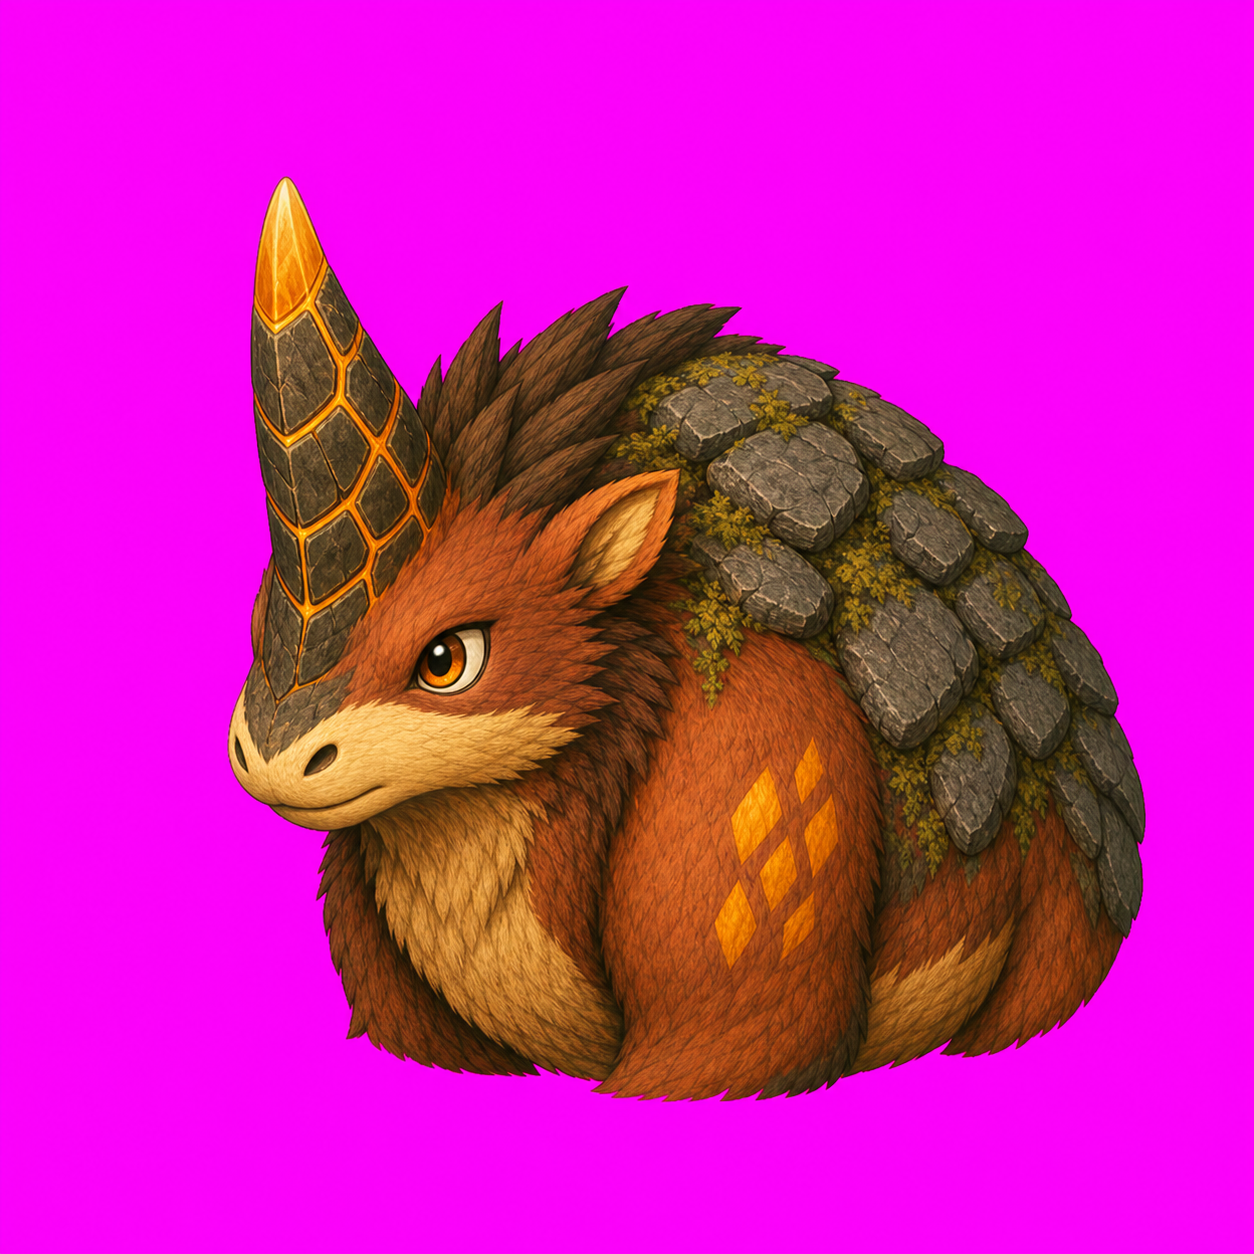
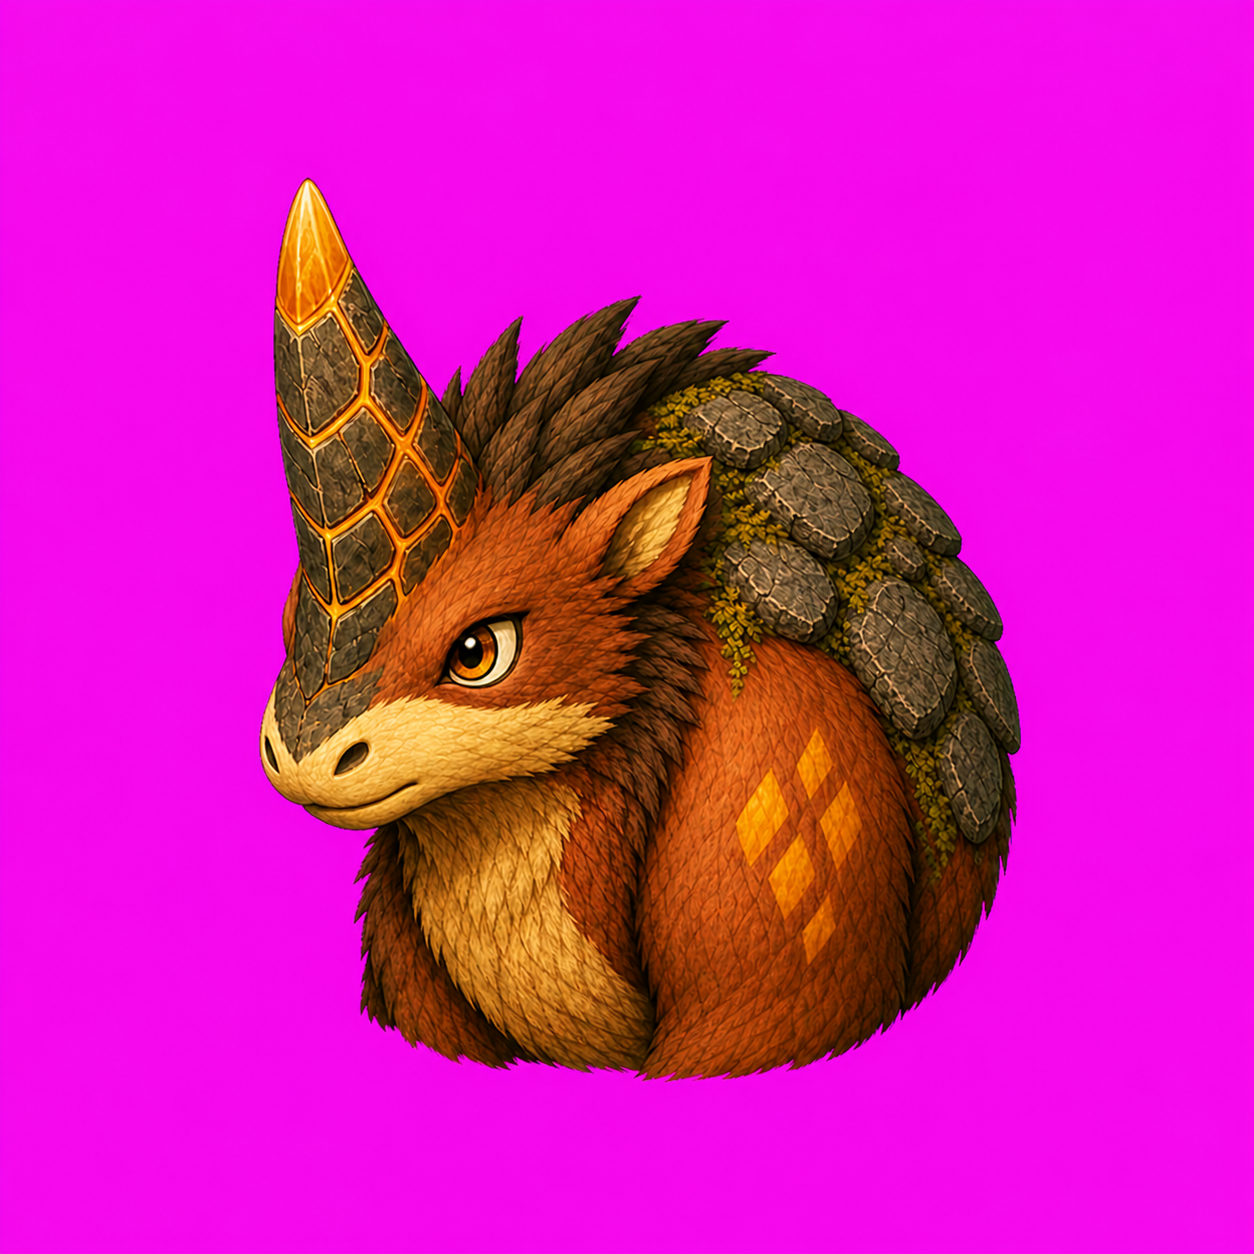
fix(art): restore moss rampart portrait readability

Changed region(s): [[0.1555, 0.1244, 0.933, 0.9019]]

diff --git a/tools/verify_pet_fusion_closed_release.py b/tools/verify_pet_fusion_closed_release.py
@@ -222,14 +222,14 @@ PORTRAIT_DIRECT_AUXILIARY_REFERENCE_RECORDS = {
             "pathLabel": (
                 ".codex/generated_images/"
                 "019fe7c8-2fd7-7972-94a7-98382ddfe591/"
-                "exec-1efe4fb6-7e71-41d2-b353-507de29b3b15.png"
+                "exec-798259de-fac7-47f7-b6b4-f1690f5e72e4.png"
             ),
             "role": "codex_generated_iteration_reference",
             "matchesDeclaredIdentityReference": False,
             "currentFileSha256": (
[2 lines of base64/hex data omitted]
             ),
-            "currentFileByteLength": 1651279,
+            "currentFileByteLength": 2003667,
             "currentFileWidth": 1254,
             "currentFileHeight": 1254,
             "currentFileFormat": "PNG",

diff --git a/docs/phase_426_moss_rampart_portrait_readability.md b/docs/phase_426_moss_rampart_portrait_readability.md
@@ -1,0 +1,81 @@
+# Phase 426：苔垒角兽专用头像可读性修复
+
+## 结果
+
+本阶段替换 `emberhorn_fusion_moss_rampart_fire4_earth6`（苔垒角兽）原有头像候选，解决其在
+48／64 像素候选栏中缩成一团、容易被误读为蜷缩全身图的问题。新版本是独立生成的头肩像，保留
+单根玄武岩角、橙色熔纹、小型琥珀眼、短口鼻、岩甲、克制苔藓与肩部橙色菱纹；没有复用世界、
+战斗或全身帧裁切。
+
+美术自审结论为“具备提交和项目所有者审片条件”：主角、眼睛和材质焦点清楚，圆形融合目标框内
+留白均衡，48／64／96／128 像素下仍能辨认角、面部和甲壳层次。它与曜冠角兽在轮廓、材质和
+攻守气质上形成明确区分，不是换色关系。
+
+本阶段不冒充项目所有者批准。以下门禁继续保持关闭：
+
+```text
+semanticIndependenceVerified=false
+releaseGate=false
+ownerReviewStatus=owner_review_pending
+releaseApproved=false
+runtimeEnabled=false
+playerEntryOpened=false
+```
+
+## 生成与运行资产
+
+- ImageGen generation ID：`exec-2f8ba0a5-4a22-469e-9460-4738159db22b`；
[3 lines of base64/hex data omitted]
+- 512 运行图可见覆盖率为 `30.6362%`，可见边界为 `[105, 72, 417, 443]`；四边透明留白依次为
+  左 `105`、上 `72`、右 `95`、下 `69` 像素，均超过 41 像素最低安全边距；
+- duplicate guard 扫描 521 张既有图片，未发现精确或缩放复用；该结果只排除机械复制，不替代
+  语义独立性、版权来源或项目所有者审美判断。
+
+运行头像、1024 主文件、原始生成图、无损 WebP、alpha／色键掩码、生成证明、实际请求 prompt、
+来源说明与 48／64／96／128 接触表已作为一个原子资产包更新。`.run` 中的选择过程只作本地追溯，
+可移植校验依赖仓库内原图、身份图、哈希和生成证明，不依赖另一台机器拥有 Codex 图片缓存。
+
+## 真实 Main 画面
+
+最终权威录像位于本地忽略目录：
+
+```text
+.run/evidence/phase426_moss_portrait_owner_review/
+  phase426-moss-portrait-review-20260814-c/
+```
+
+| 产物 | SHA-256 |
+| --- | --- |
[4 lines of base64/hex data omitted]
+
+媒体为 H.264／yuv420p／1280×720／30 FPS／`1.00x`，AAC 48 kHz 双声道，30.600 秒、918 帧。
+两条路线各完成一次跨帧真实左键，正式材料头像为 `5/5`、占位图为 `0`；总网络请求为 `0`，
+第二次确认为 `0`，真实玩家目录前后未变且 automation QA lane 已清理。
+
+隔离 worktree 的初次直接启动因没有 `.godot` 导入缓存而失败；完成标准 Godot 资源导入后，融合
+面板专用检查两条路线均通过。失败轮次 `a`、`b` 不是发布证据，最终权威轮次仅为 `c`。
+
+## 验证
+
+- `python3 -m py_compile tools/verify_pet_fusion_closed_release.py tools/build_pet_portrait.py`：通过；
+- `python3 -m unittest tools.test.test_build_pet_portrait tools.test.test_audit_pet_portrait_catalog tools.test.test_verify_pet_fusion_closed_release`：共运行 131 项，`130 PASS / 1 SKIP`；
+- `python3 tools/audit_pet_portrait_catalog.py --catalog-only`：`status=ok`，36 个形态全部审计，当前头像仍为 owner pending／release gate false；
+- `node tools/run_godot_auto_checks.mjs --only --auto-pet-portrait-art-catalog-check,--auto-pet-shared-portrait-consumer-check --fail-fast`：解析与两项检查 `3/3 PASS`；
+- `godot --headless --path client/godot --script res://scripts/qa/pet_fusion_panel_check.gd`：两条路线均为 `candidateFormalPortraitCount=5 / candidatePlaceholderCount=0 / targetPortraitStatus=formal`；
+- `python3 tools/verify_pet_fusion_closed_release.py`：`PASS`，继续证明 `2 forms / 1350 copied / 22 portrait files / 2 QA import controls`，三个发布开关保持 false；
+- `python3 tools/record_pet_fusion_main_owner_review.py ...`：最终轮次 `passed`，覆盖原生 Main、MovieWriter、音视频解码、关键帧、关闭发布校验与 QA lane 清理；
+- `git diff --check`：通过。
+
+本阶段只更新头像资产、头像来源证明与相应关闭发布校验常量，没有修改界面布局、逐帧逻辑、输入、
+网络、协议、配方、成长、概率或经济规则，因此没有制造新的运行时热路径，也不以本次头像审片替代
+后续融合正式开放与性能门禁。
+
+## 下一门禁
+
+项目所有者需要观看最终成片并明确接受或拒绝这张苔垒角兽专用头像。只有得到明确接受后，才允许
+在后续独立阶段更新 owner decision／release attestation；本阶段不得提前开启生产融合。

diff --git a/client/godot/assets/pets/emberhorn_fusion_moss_rampart_fire4_earth6/portrait/source-and-ownership.md b/client/godot/assets/pets/emberhorn_fusion_moss_rampart_fire4_earth6/portrait/source-and-ownership.md
@@ -6,23 +6,23 @@
 - semantic independence verified by automation: `false`
 - full-body crop allowed: `false`
 - generator: Codex built-in imagegen
-- generation result id: `call_PPRtkgA2KYdVM7pMNVrrzNH3`
+- generation result id: `exec-2f8ba0a5-4a22-469e-9460-4738159db22b`
 - generation attestation: `client/godot/assets/pets/emberhorn_fusion_moss_rampart_fire4_earth6/source/portrait/generation-attestation.json`
 - approved identity reference: `client/godot/assets/pets/emberhorn_fusion_moss_rampart_fire4_earth6/identity/front_3quarter_sw.png`
[1 lines of base64/hex data omitted]
 - exact ImageGen request prompt: `client/godot/assets/pets/emberhorn_fusion_moss_rampart_fire4_earth6/prompts/portrait-v1.txt`
 - prompt source kind: `actual_imagegen_request`
[1 lines of base64/hex data omitted]
-- selected prompt documentation: `.run/pet-portrait-samples/emberhorn_fusion_moss_rampart_fire4_earth6/prompt.txt`
[2 lines of base64/hex data omitted]
+- selected prompt documentation: `.run/fusion-portrait-revision-20260812/moss-rampart/input/prompt-v8.txt`
[1 lines of base64/hex data omitted]
 - processing: same-operation chroma alpha matte plus exact-mask-bounded edge cleanup; no global color pass
 - edge contract: `1`
-- edge cleanup changed pixels: `2385`
+- edge cleanup changed pixels: `2486`
 - edge cleanup alpha changed pixels: `0`
[8 lines of base64/hex data omitted]
 - provenance status: project-directed generated candidate; automated checks do not prove copyright provenance
 - replacement path: rerun `tools/build_pet_portrait.py` from a newly generated dedicated headshot source
 - owner review required: `true`
